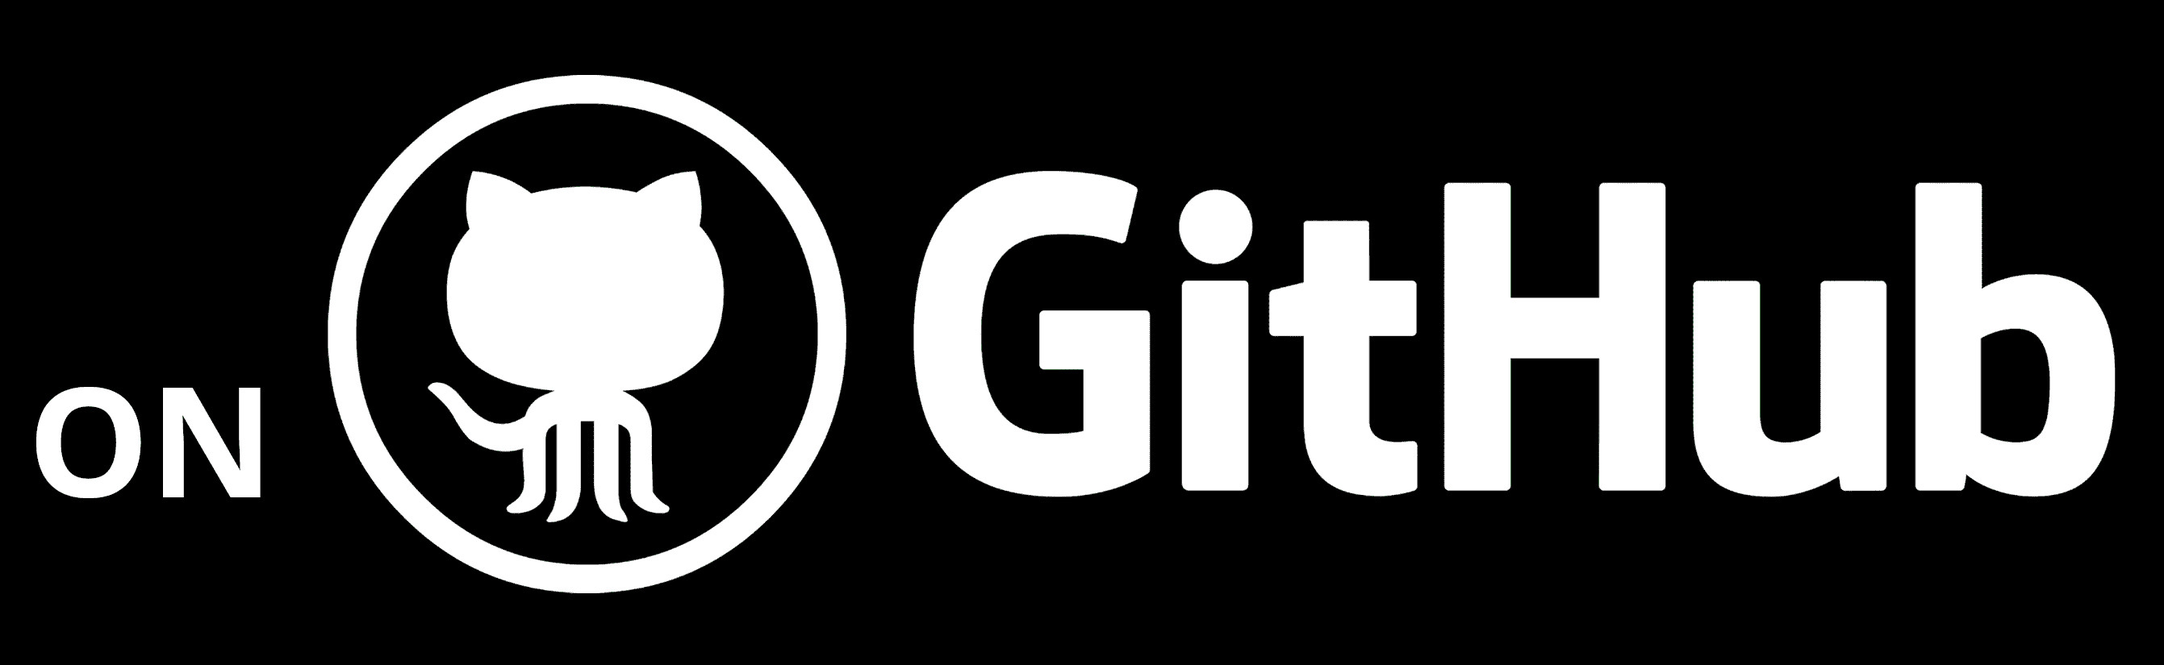
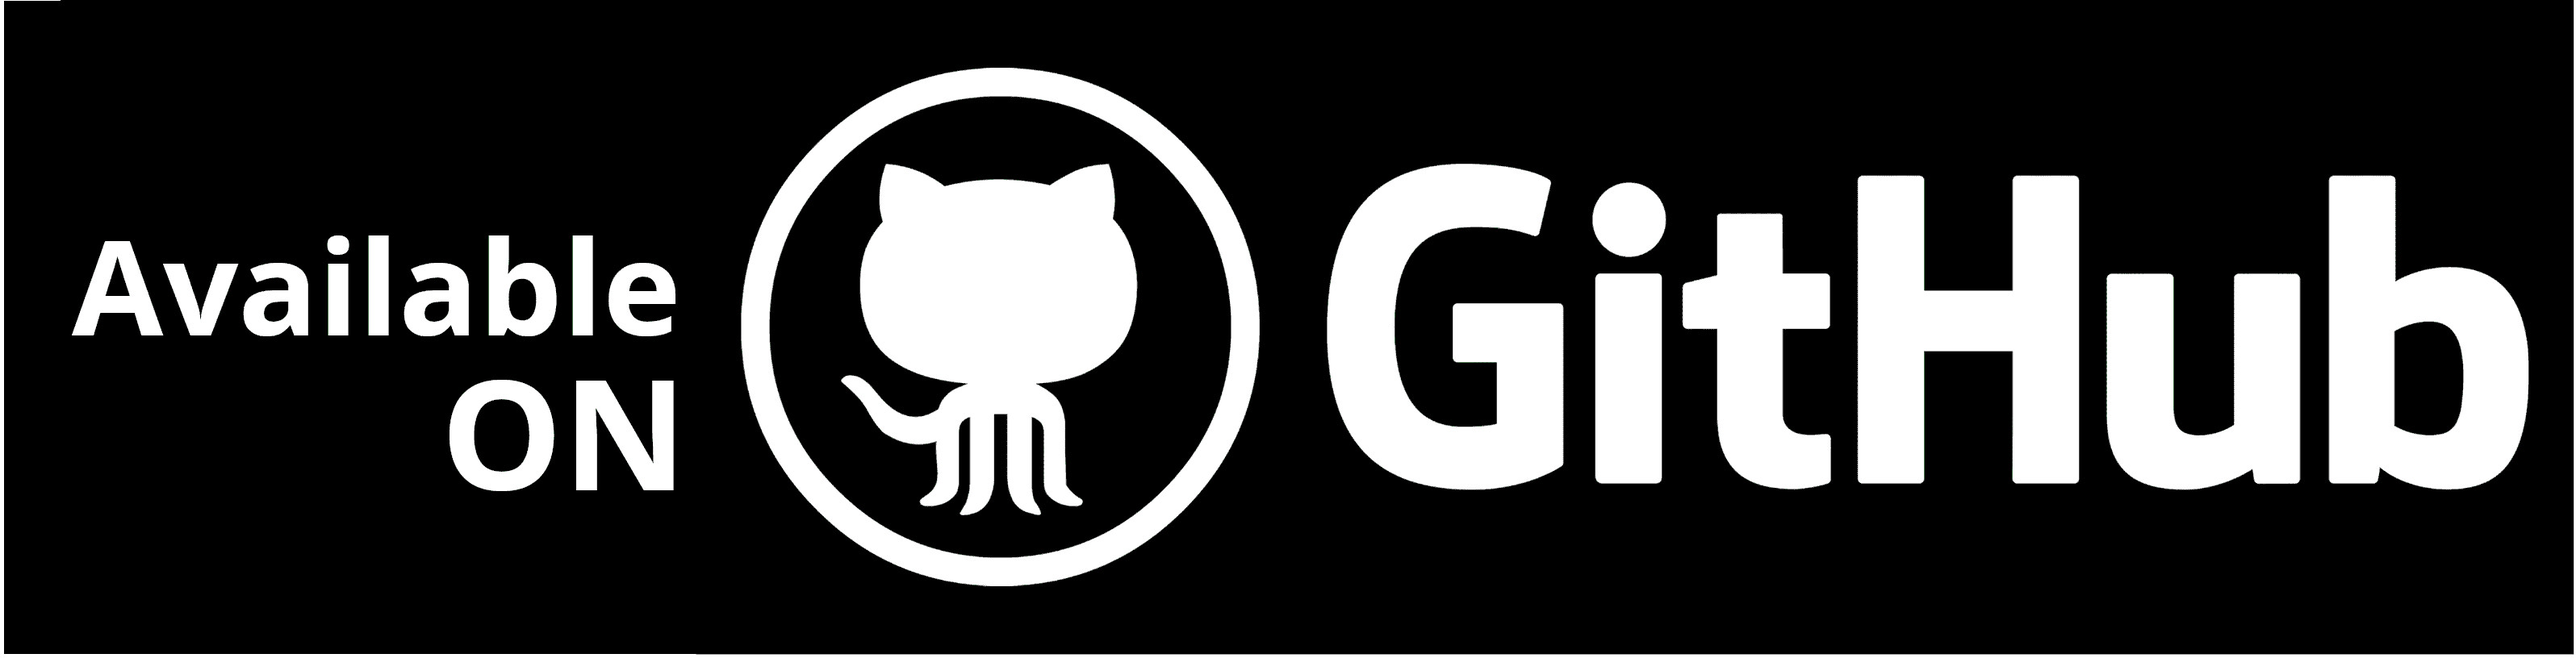
ADDING INFOS VIEWS

Changed region(s): [[0.0, 0.0, 1.0, 1.0], [0.0, 0.5821, 0.1238, 0.7659], [0.9284, 0.7353, 0.9594, 0.7659]]

diff --git a/ANGIOLOGIC/FRONT/src/style/Infos.scss b/ANGIOLOGIC/FRONT/src/style/Infos.scss
@@ -1,13 +1,85 @@
 body {
-    background-color: aqua;
+    background-color: rgb(77, 77, 77);
     .infos-sct {
         user-select: none;
-        background-color: aqua;
+        // background-color: aqua;
         height: 75%;
         width: 89%;
         border-radius: 15px;
         z-index: 998;
         backdrop-filter: blur(15px);
         background-color: rgba(0, 0, 0, 0.377);
+        display: flex;
+        .infos-app-sct {
+            height: 100%;
+            width: 50%;
+            // background-color: red;
+            display: flex;
+            flex-direction: column;
+            justify-content: space-around;
+            align-items: center;
+            .infos-app-sct-main {
+                display: flex;
+                flex-direction: column;
+                justify-content: center;
+                align-items: center;
+                color: #FFF;
+            }
+            .infos-app-sct-dev {
+                h2 {
+                    text-align: center;
+                    color: #FFF;
+                    font-size: 130%;
+                }
+            }
+            .infos-app-sct-txt {
+                display: flex;
+                flex-direction: column;
+                // background-color: aqua;
+                width: 85%;
+                h2 {
+                    text-align: center;
+                    color: #FFF;
+                    font-size: 130%;
+                }
+                p {
+                    color: #FFF;
+                    margin-top: 15px;
+                    text-align: center;
+                }
+            }
+            .infos-app-sct-status {
+                width: 100%;
+                h2 {
+                    text-align: center;
+                    color: #FFF;
+                    font-size: 130%;
+                }
+                .infos-app-sct-status-content {
+                    margin-top: 15px;
+                    width: 100%;
+                    .infos-app-sct-status-content-github {
+                        display: flex;
+                        justify-content: space-around;
+                        align-items: center;
+                        a {
+                            img {
+                                width: 10rem;
+                                border-radius: 4px;    
+                            }
+                        }
+                        img {
+                            width: 10rem;
+                            border-radius: 4px;
+                        }
+                    }
+                }
+            }
+        }
+        .infos-legal-sct {
+            height: 100%;
+            width: 50%;
+            // background-color: green;
+        }
     }
 }

diff --git a/ANGIOLOGIC/FRONT/src/views/Infos.vue b/ANGIOLOGIC/FRONT/src/views/Infos.vue
@@ -7,7 +7,35 @@ import Top from '../components/Topbar.vue';
     <body>
         <Top></Top>
         <div class="infos-sct">
-            
+            <div class="infos-app-sct">
+                <div class="infos-app-sct-main">
+                    <h1>ANGIOLOGIC</h1>
+                    <h4>L'application professionnelle de croquis vasculaire</h4>
+                </div>
+                <div class="infos-app-sct-dev">
+                    <h2>LemnixTech</h2>
+                    
+                </div>
+                <div class="infos-app-sct-txt">
+                    <h2>Présentation</h2>
+                    <p>Bienvenue dans le monde de la modélisation vasculaire révolutionnaire avec AngioLogic, le logiciel innovant que j'ai créé. AngioLogic offre une solution de pointe pour la conception de croquis médicaux vasculaires précis et détaillés, transformant la manière dont les professionnels de la santé visualisent et communiquent sur les structures vasculaires. Avec une interface conviviale et des fonctionnalités avancées, AngioLogic ouvre de nouvelles perspectives dans le domaine de la modélisation médicale, permettant une compréhension plus profonde et une communication plus efficace des informations vasculaires. Découvrez l'avenir de la modélisation vasculaire avec AngioLogic.</p>
+                </div>
+                <div class="infos-app-sct-status">
+                    <h2>Status de l'application</h2>
+                    <div class="infos-app-sct-status-content">
+                        <div class="infos-app-sct-status-content-github">
+                            <a href="https://github.com/Korzeremi/PROJET_ANGIOLOGIC">
+                                <img src="../assets/onGithub.jpg" alt="onGithub">
+                            </a>
+                            <img src="../assets/appStatus.jpg" alt="appStatus">
+                            <img src="../assets/inDev.jpg" alt="inDev">
+                        </div>
+                    </div>
+                </div>   
+            </div>
+            <div class="infos-legal-sct">
+
+            </div>
         </div>
         <Foot></Foot>
     </body>

diff --git a/ANGIOLOGIC/FRONT/src/components/Topbar.vue b/ANGIOLOGIC/FRONT/src/components/Topbar.vue
@@ -28,7 +28,7 @@
             </router-link>
         </div>
         <div class="topbar-app-status">
-            <p>ALPHA - DEBUG TEST</p>
+            <p>DEBUG TEST</p>
         </div>
     </div>
 </template>
